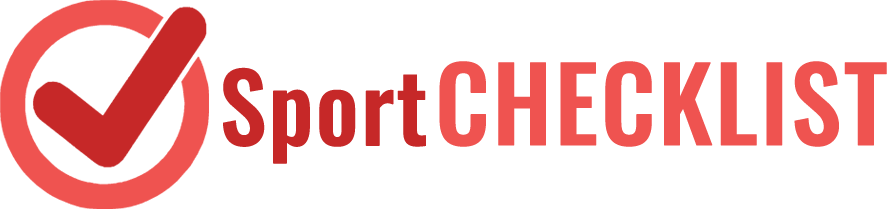
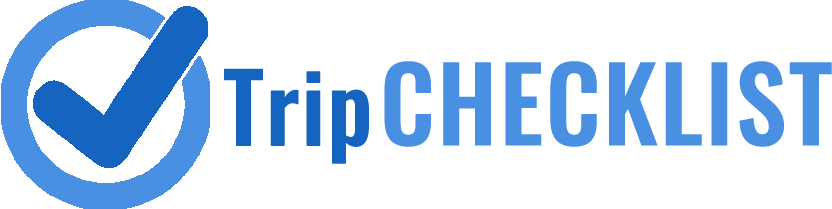
Prime modifiche dopo la copia da Sport Checklist

diff --git a/assets/js/app.js b/assets/js/app.js
@@ -129,7 +129,7 @@ function renderHome(){
 
         welcome.style.display = "block"
         welcome.innerHTML = `
-            <img src="${getLogoImage()}" alt="Sport Checklist">
+            <img src="${getLogoImage()}" alt="Trip Checklist">
             <p class="logo-tagline">${t("home.tagline")}</p>
             <p>${t("home.welcome")}</p>
             <p>${t("home.createFirst")}</p>
@@ -345,7 +345,7 @@ function addFirstItemModal(sIndex, cIndex){
 function openInfoModal(){
     openModal(`
         <div class="textcenter">
-            <img src="${getLogoImage()}" class="info-logo" alt="Sport Checklist">
+            <img src="${getLogoImage()}" class="info-logo" alt="Trip Checklist">
             <p class="logo-tagline">${t("info.tagline")}</p>
             <p><strong>v. ${APP_VERSION}</strong></p>
             <p><small>${t("info.description")}<br>

diff --git a/index.html b/index.html
@@ -4,10 +4,10 @@
 <head>
     <meta charset="UTF-8">
     <meta name="viewport" content="width=device-width, initial-scale=1">
-    <title>Sport Checklist</title>
+    <title>Trip Checklist</title>
     <meta name="theme-color" content="var(--theme-dark)">
     <meta name="apple-mobile-web-app-capable" content="yes">
-    <meta name="apple-mobile-web-app-title" content="Sport Checklist">
+    <meta name="apple-mobile-web-app-title" content="Trip Checklist">
     <meta name="apple-mobile-web-app-status-bar-style" content="default">
     <meta name="format-detection" content="telephone=no">
     <link rel="stylesheet" href="assets/css/style.css">

diff --git a/assets/js/theme.js b/assets/js/theme.js
@@ -1,6 +1,6 @@
 import { COLORS } from "./colors.js"
 
-const THEME_STORAGE_KEY = "sport_checklist_theme"
+const THEME_STORAGE_KEY = "trip_checklist_theme"
 
 export const THEMES = {
     RED: "red",
@@ -12,7 +12,7 @@ export const THEMES = {
 
 export function getTheme(){
     return localStorage.getItem(THEME_STORAGE_KEY)
-        || THEMES.RED
+        || THEMES.BLUE
 }
 export function setTheme(theme){
     localStorage.setItem(

diff --git a/assets/js/language.js b/assets/js/language.js
@@ -3,7 +3,7 @@
 let currentLanguage = "it"
 let translations = {}
 
-const LANGUAGE_STORAGE_KEY = "sportChecklistLanguage"
+const LANGUAGE_STORAGE_KEY = "checklistLanguage"
 
 const SUPPORTED_LANGUAGES = {
     SYSTEM: "system",

diff --git a/assets/js/utils.js b/assets/js/utils.js
@@ -1,3 +1,3 @@
 export const APP_VERSION = "1.7.0"
-export const SUPPORT_EMAIL = "matteosteri+sportchecklist@gmail.com";
+export const SUPPORT_EMAIL = "matteosteri+tripchecklist@gmail.com";
 export const PLAY_STORE_URL = "";
